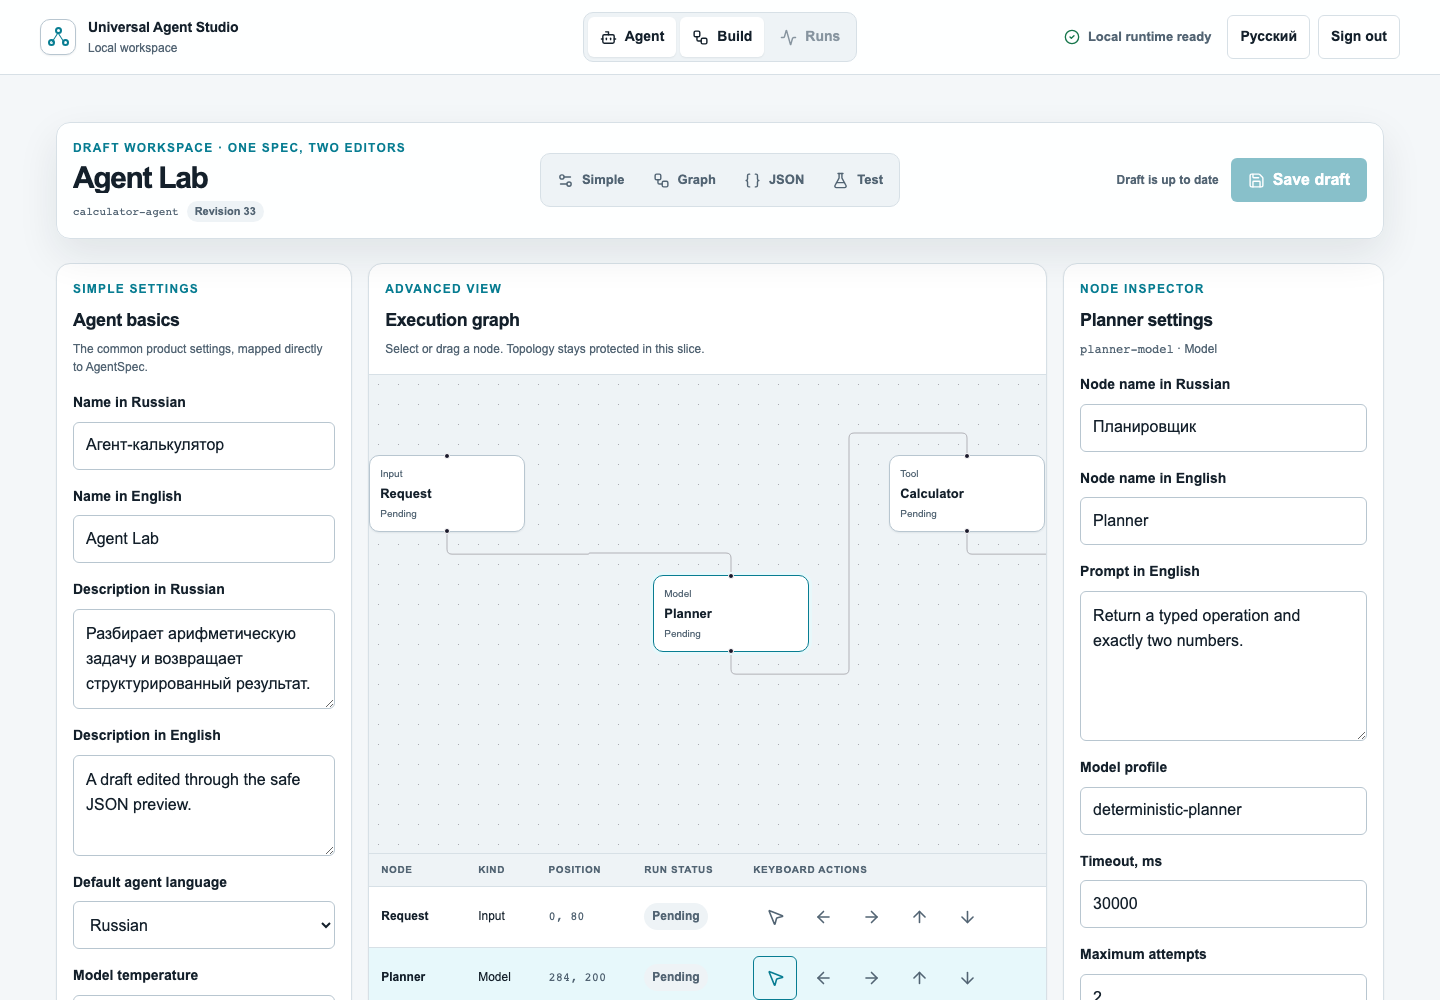
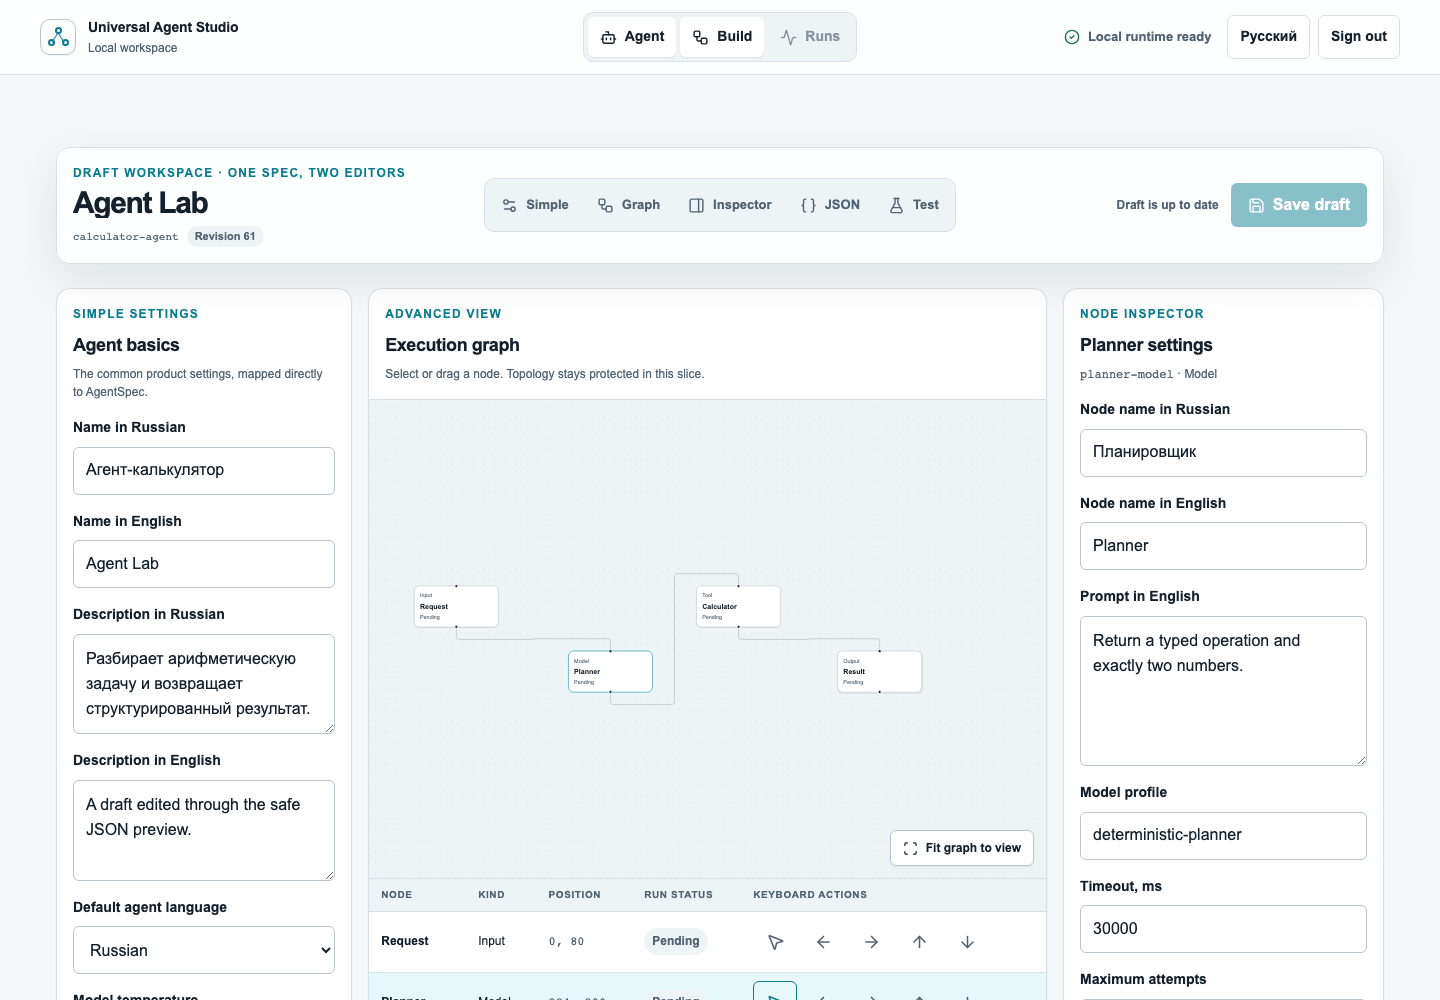
docs: finalize Slice 2 evidence

diff --git a/docs/acceptance/evidence/SLICE_2.md b/docs/acceptance/evidence/SLICE_2.md
@@ -3,7 +3,7 @@
 ## Candidate
 
 - Scope: `One spec, two editors`
-- Implementation head verified before documentation: `741c852`
+- Implementation and review head verified before documentation: `6752549`
 - Environment: macOS, Docker Compose v2, Chromium, loopback-only Local Preview
 - External LLM/network dependency: none
 - Optional BYOK smoke: not configured and not claimed
@@ -16,15 +16,14 @@ Run from a clean Git worktree on 2026-07-24:
 |---|---|
 | `pnpm check` | generated files, contracts, ESLint, TypeScript, Ruff passed; mypy: 108 source files |
 | `pnpm test:contracts` | 1 file, 12 tests passed |
-| `pnpm test:web` | 12 files, 32 tests passed |
-| `TEST_DATABASE_URL=… uv run pytest -q` | 130 passed, 3 skipped |
+| `pnpm test:web` | 12 files, 35 tests passed |
+| `TEST_DATABASE_URL=… uv run pytest -q` | 134 passed, 1 explicit BYOK skip |
 | `COMPOSE_PROJECT_NAME=uas-slice2 pnpm dev:local` | all five long-running services healthy; migration exited successfully |
-| `COMPOSE_PROJECT_NAME=uas-slice2 pnpm test:e2e` | 9 Chromium tests passed |
+| `COMPOSE_PROJECT_NAME=uas-slice2 pnpm test:e2e` | 10 Chromium tests passed |
 | `uv run pytest tests/security tests/integration -q` against the running stack | 32 passed |
 
-The three full-suite skips were the explicit BYOK smoke plus the two tests
-that require a running full stack. Those two stack-dependent tests then passed
-in the dedicated 32-test security/integration run.
+The only full-suite skip was the opt-in BYOK smoke. Stack-dependent security
+tests ran against the isolated `uas-slice2` Compose project and passed.
 
 ## User-journey proof
 
@@ -39,15 +38,22 @@ Chromium proves:
 7. run the saved revision as an immutable snapshot;
 8. retain `Running` and `Completed` node history and return `{"value":437}`;
 9. open the persisted trace and switch RU/EN without changing run or draft
-   identity.
+   identity;
+10. invoke fit-to-view explicitly, persist the exact React Flow viewport and
+    restore it on refresh without marking the untouched draft dirty.
 
-The narrow scenario selects and moves a node with the keyboard and proves the
-edited prompt is absent from local/session storage.
+The narrow scenario traverses the real responsive editor tabs with arrow keys,
+selects and moves a node with the keyboard, and proves the edited prompt is
+absent from local/session storage.
 
 ## Security and recovery proof
 
 - A foreign project cannot read or update the owner draft.
 - Stale revisions and invalid documents fail closed.
+- Malformed nested AgentSpec values return stable `422` validation instead of
+  reaching a server error.
+- Draft snapshot creation shares the write-route rate limit, and dirty drafts
+  cannot be run under a stale saved-revision label.
 - A generated secret-like value is absent from API/diff responses, the saved
   draft, PostgreSQL draft/trace documents, Compose logs and browser assets.
 - Generated local infrastructure secrets are absent from Compose
@@ -70,6 +76,11 @@ zoom on a 1280px viewport.
   remains the graph editor;
 - keyboard focus uses a visible solid outline;
 - `prefers-reduced-motion: reduce` is honored.
+- saved graph pan/zoom is authoritative on load; fit-to-view is an explicit
+  localized button rather than a mount-time side effect.
+
+The final independent code review reported no remaining Critical or Important
+issues and marked the slice ready to merge.
 
 The real verified screenshot is
 [`assets/readme/slice2-editor.png`](../../../assets/readme/slice2-editor.png).

diff --git a/docs/superpowers/plans/2026-07-24-slice-2-one-spec-two-editors.md b/docs/superpowers/plans/2026-07-24-slice-2-one-spec-two-editors.md
@@ -941,7 +941,7 @@ git add README.md ROADMAP.md DESIGN.md SECURITY.md docs third_party assets/readm
 git commit -m "docs: record Slice 2 verification evidence"
 ```
 
-- [ ] **Step 6: Perform final review**
+- [x] **Step 6: Perform final review**
 
 Invoke `requesting-code-review`. Resolve every Critical and Important finding,
 then rerun the complete release gate on the final commit.
